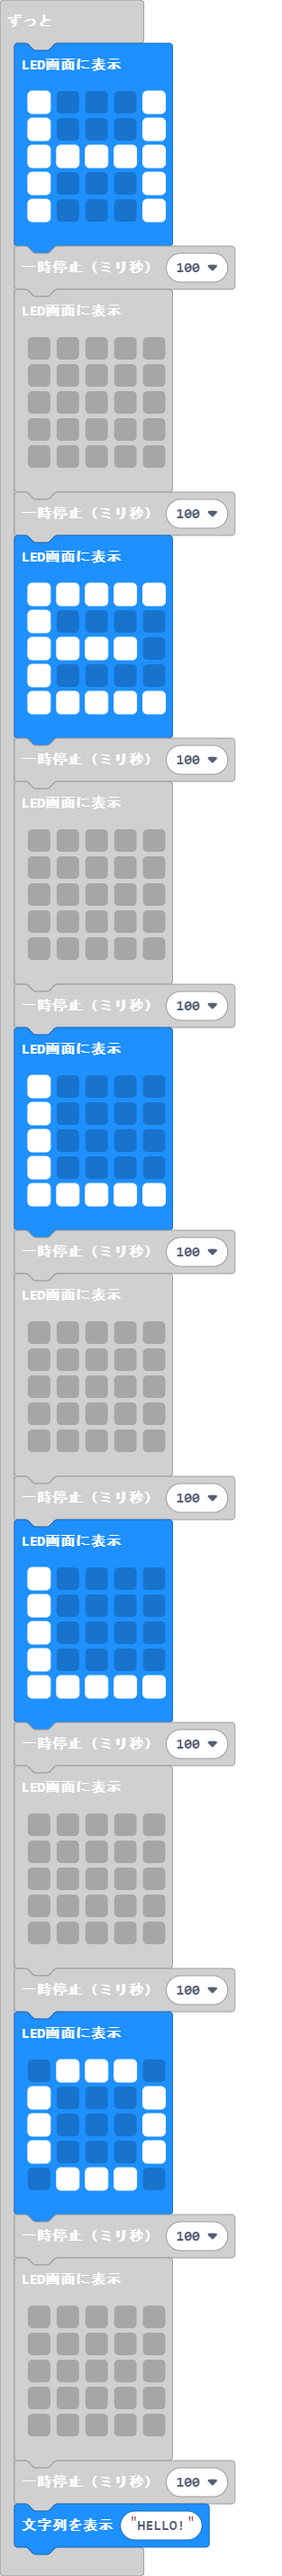
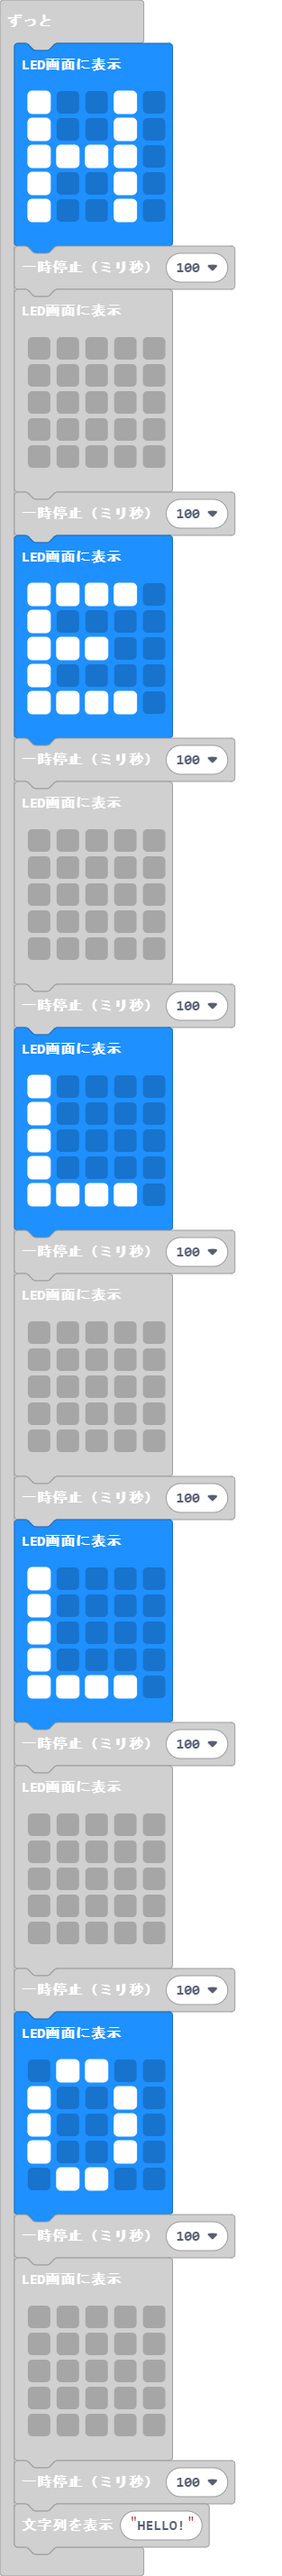
更新 main.blocks, main.ts

diff --git a/main.ts b/main.ts
@@ -1,10 +1,10 @@
 basic.forever(function () {
     basic.showLeds(`
-        # . . . #
-        # . . . #
-        # # # # #
-        # . . . #
-        # . . . #
+        # . . # .
+        # . . # .
+        # # # # .
+        # . . # .
+        # . . # .
         `)
     basic.pause(100)
     basic.showLeds(`
@@ -16,11 +16,11 @@ basic.forever(function () {
         `)
     basic.pause(100)
     basic.showLeds(`
-        # # # # #
-        # . . . .
         # # # # .
         # . . . .
-        # # # # #
+        # # # . .
+        # . . . .
+        # # # # .
         `)
     basic.pause(100)
     basic.showLeds(`
@@ -36,7 +36,7 @@ basic.forever(function () {
         # . . . .
         # . . . .
         # . . . .
-        # # # # #
+        # # # # .
         `)
     basic.pause(100)
     basic.showLeds(`
@@ -52,7 +52,7 @@ basic.forever(function () {
         # . . . .
         # . . . .
         # . . . .
-        # # # # #
+        # # # # .
         `)
     basic.pause(100)
     basic.showLeds(`
@@ -64,11 +64,11 @@ basic.forever(function () {
         `)
     basic.pause(100)
     basic.showLeds(`
-        . # # # .
-        # . . . #
-        # . . . #
-        # . . . #
-        . # # # .
+        . # # . .
+        # . . # .
+        # . . # .
+        # . . # .
+        . # # . .
         `)
     basic.pause(100)
     basic.showLeds(`
